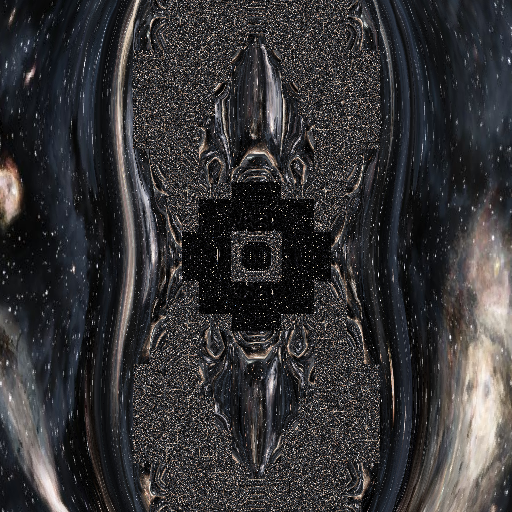
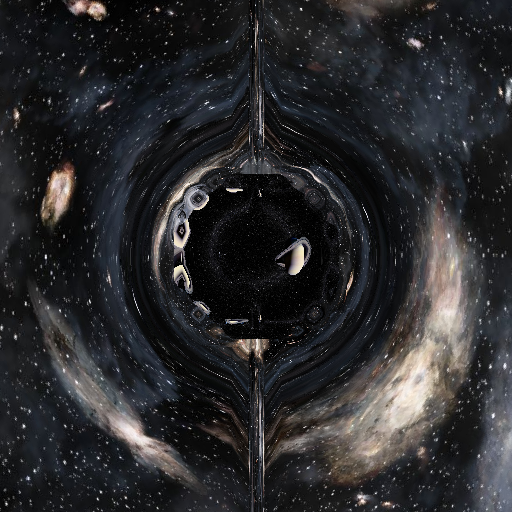
It works! - requires very large time step

diff --git a/python test/Wormhole.py b/python test/Wormhole.py
@@ -1,0 +1,162 @@
+# -*- coding: utf-8 -*-
+"""
+@author: Ludoric
+"""
+
+import numpy as np
+import cv2
+import pprint
+
+
+def cartesianToSpherical(x, y, z):
+    """Convert Cartesian Coordinates to Spherical Coordinates."""
+    r = np.sqrt(x**2+y**2+z**2)
+    theta = np.arccos(z/r)
+    phi = np.arctan2(y, x)
+    return r, theta, phi
+
+
+def sphericalToCartesian(r, theta, phi):
+    """Convert Spherical Coordinates to Cartesian Coordinates."""
+    x = r*np.sin(theta)*np.cos(phi)
+    y = r*np.sin(theta)*np.sin(phi)
+    z = r*np.cos(theta)
+    return x, y, z
+
+
+def normalise(x, y, z):
+    norm = np.sqrt(x**2+y**2+z**2)
+    if norm == 0:
+        return (x, y, z)
+    return (x/norm, y/norm, z/norm)
+
+
+def distance(a, b):
+    return np.sqrt((np.subtract(a, b)**2).sum())
+
+
+def add(*tups):
+    return tuple(map(sum, zip(*tups)))
+
+
+def mult(s, tup):
+    return tuple([z * s for z in tup])
+
+
+def r_dist(len):
+    return (RHO**2+len**2)**(1/2)
+
+
+Bhole = (0, 0, 0)  # black hole at (0,0,0) --by definition
+up = (0, 0, 1)  # vector in the "up" direction in world space
+RHO = 1  # the "size" of the wormhole
+
+cam = (-4, 0, 0)  # camera location in cartesian coordinates
+camseph = cartesianToSpherical(*cam)
+# camseph = (-camseph[0], camseph[1], camseph[2])  # try starting from the other side?
+camDx = normalise(*cam)  # look direction
+camDy = normalise(*np.cross(up, camDx))
+camDz = tuple(np.cross(camDx, camDy))
+cam_Lookat = np.matmul(
+    np.array([[*camDx, 0], [*camDy, 0], [*camDz, 0], [0, 0, 0, 1]]),
+    np.array([[1, 0, 0, -cam[0]], [0, 1, 0, -cam[1]], [0, 0, 1, -cam[2]], [0, 0, 0, 1]]))
+# print(cam)
+# print(camDx, camDy, camDz)
+# print(cam_Lookat)
+# print(camseph)
+# print(cartesianToSpherical(*camDx))
+
+# local camera coordinates in polar form?
+# direction on the cameras local sky
+lenphi, lentheta = 32, 32
+ranphi, rantheta = (-np.pi/4, np.pi/4), (-np.pi/4, np.pi/4)
+output = [[0 for i in range(lentheta)] for j in range(lenphi)]
+for stepT in range(lentheta):
+    camTcs = rantheta[0] + (rantheta[1]-rantheta[0])/(lentheta-1)*stepT
+    for stepP in range(lenphi):
+        camPcs = ranphi[0] + (ranphi[1]-ranphi[0])/(lenphi-1)*stepP
+
+        # unit vector in that direction is:
+        vseph = cartesianToSpherical(*camDx)
+        camN = sphericalToCartesian(1, vseph[1]+camTcs, vseph[2]+camPcs)
+        # ------------------------- I think the code is free of bugs up to here
+        # little n
+        n = (-camN[0], -camN[1], +camN[2])
+
+        r = r_dist(camseph[0])  # r is the improper distance to the wormhole
+        # incoming light ray's canonical momentum
+        # p =  (n_l, r*n_theta, r*sin(theta)*n_phi)
+        p = (n[0], r*n[1], r*np.sin(camseph[1])*n[2])
+        b = p[2]  # = r*sin(theta)*n_phi
+        Bsquared = (r**2)*(n[1]**2+n[2]**2)
+
+        # numerically integrate from t=0 to t=-infinity
+        # location = cam, momentum = p,  constants of motion  = (b, Bsquared)
+
+        b = b
+        Bsq = Bsquared
+        (l, th, ph, Pl, Pth) = (camseph[0], camseph[1], camseph[2], p[0], p[1])
+        ti = -20  # = negative infinity
+        dt = -0.017
+        t = 0
+        while t > ti:  # I don't know how to use for loops...
+            # dl/dt = p_l
+            # dtheta/dt = p_theta/r^2
+            # dphi/dt = b/(r^2 sin^2(theta))
+            # dP_l/dt = B^2* (dr/dl) /r^3
+            # dP_theta b^2*cos(theta)/(r^2*sin^3(theta))
+            r = r_dist(l)
+            nl = l + Pl*dt
+            (l, th, ph, Pl, Pth) = (nl,
+                                    th + Pth/(r**2)*dt,
+                                    ph + b/((r*np.sin(th))**2)*dt,
+                                    Pl + Bsq*((r_dist(nl)-r)/(Pl*dt) * dt)/r**3,
+                                    Pth + (b/r)**2*(np.cos(th)/np.sin(th)**3)*dt)
+            t += dt
+
+        print(stepT*lentheta+stepP)
+        output[stepP][stepT] = (l, th, ph)
+
+
+pp = pprint.PrettyPrinter(indent=2, width=160)
+pp.pprint(output)
+
+# output now contains an array of(l', theta', phi') for (theta, phi)
+width = 512
+ratio = 1
+fov = 90 / 180*np.pi
+height = int(width/ratio)
+tx1 = cv2.imread("InterstellarWormhole_Fig6a.jpg")
+tx2 = cv2.imread("InterstellarWormhole_Fig10.jpg")
+img = np.zeros((width, height, 3), np.uint8)
+
+for x in range(width):
+    for y in range(height):
+
+        x1 = int(np.floor(x/width*(lenphi-1)))
+        xw = 1-(x/width*(lenphi-1) - x1)
+        y1 = int(np.floor(y/height*(lentheta-1)))
+        yw = 1-(y/height*(lentheta-1) - y1)
+
+        # (dx, dy, dz) = (x-width/2, height/2-y, -(height/2)/np.tan(fov*0.5))
+        # dir = cartesianToSpherical((dx, dy, dz))
+        # this is not a very good camera, it projects onto a spherical screen
+
+        # the final coordinates are linearly interpolatedg from the small grid
+        coordinates = add(mult(xw*yw, output[x1][y1]),
+                          mult(xw*(1-yw), output[x1][y1+1]),
+                          mult((1-xw)*yw, output[x1+1][y1]),
+                          mult((1-xw)*(1-yw), output[x1+1][y1+1]))
+
+        if(coordinates[0] < 0):
+            rows, cols, channels = tx1.shape
+            img[x, y] = tx1[int(((coordinates[1]/(np.pi)) % 1)*rows),
+                            int(((coordinates[2]/(2*np.pi)+0.5) % 1)*cols)]
+        else:
+            rows, cols, channels = tx2.shape
+            s = min(rows, cols)
+            img[x, y] = tx2[int(((coordinates[1]/(np.pi)) % 1)*rows),
+                            int(((coordinates[2]/(2*np.pi)+0.5) % 1)*cols)]
+
+# img = cv2.rotate(img, cv2.ROTATE_90_CLOCKWISE)
+cv2.imwrite("out.png", img)
